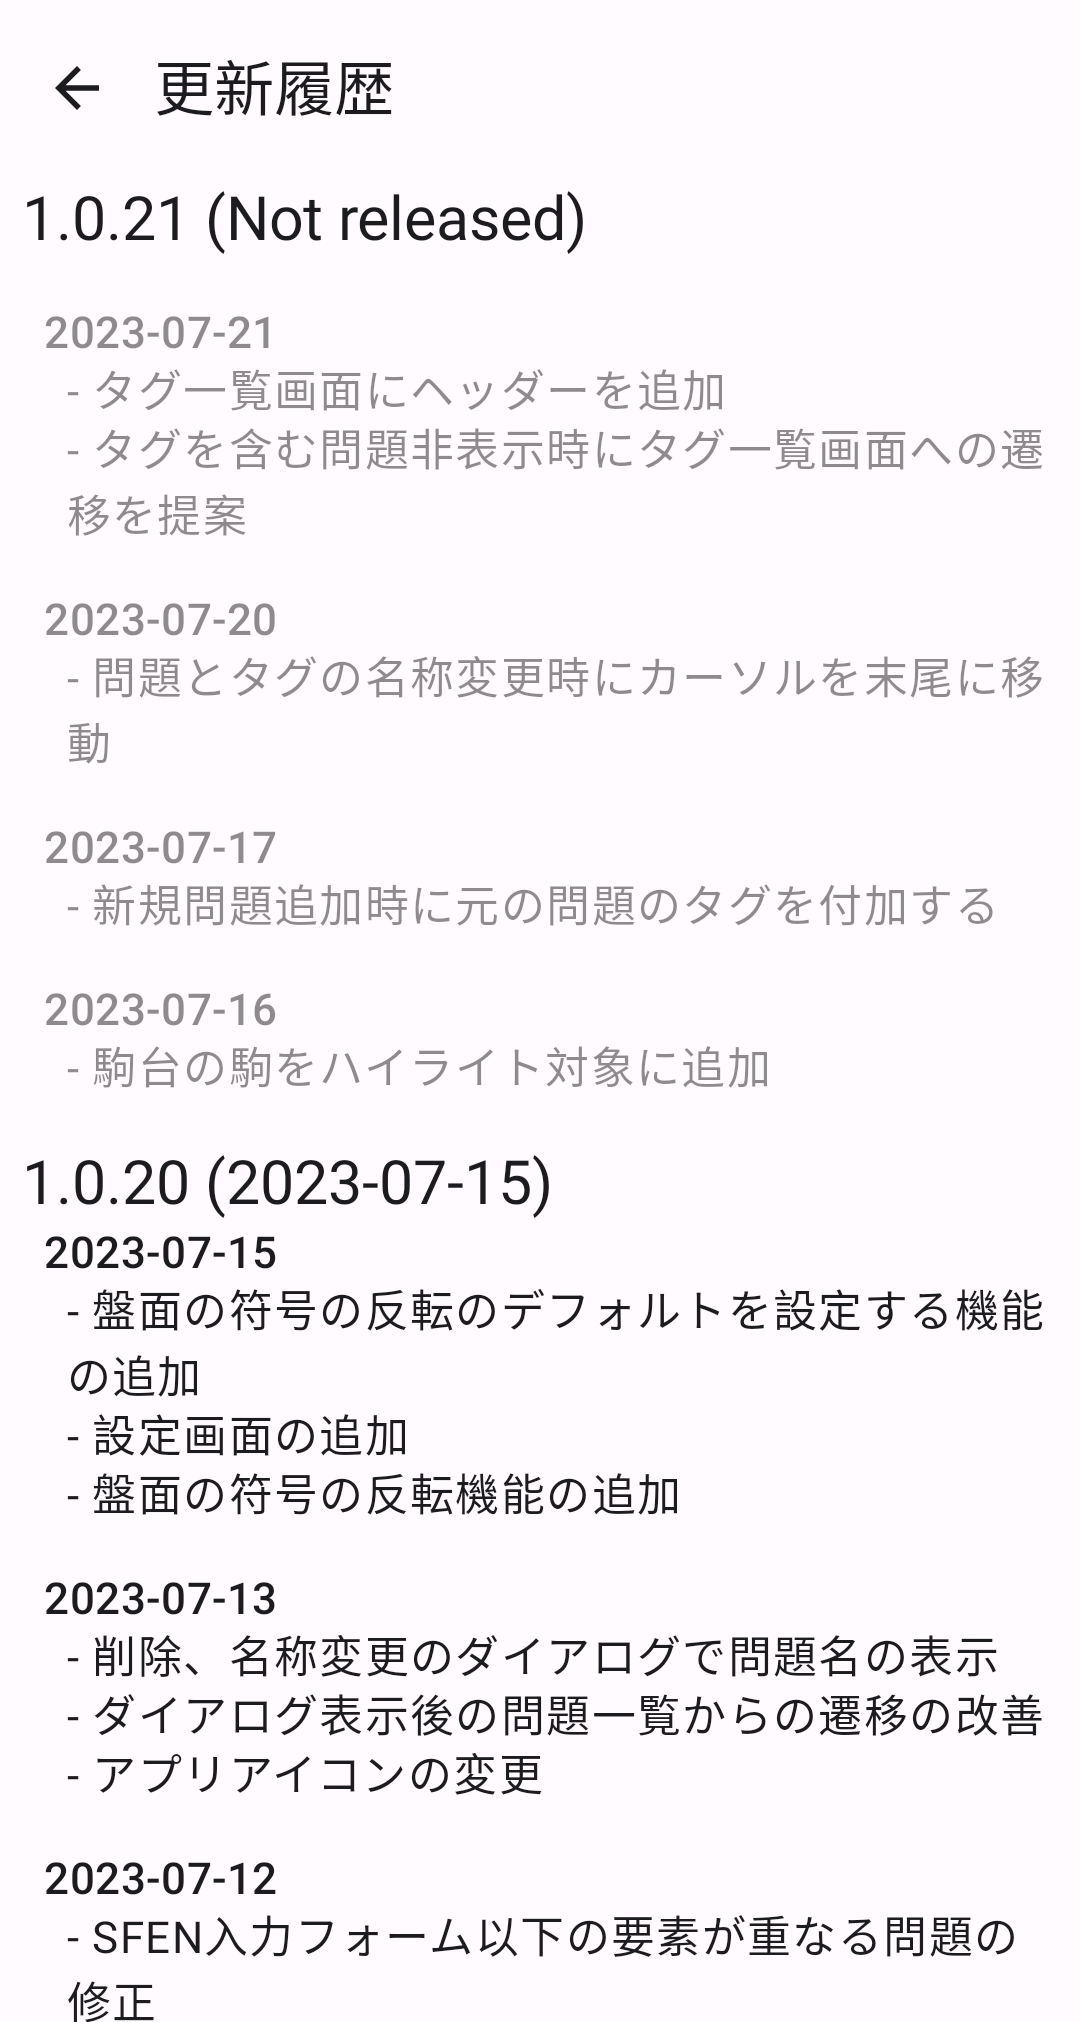
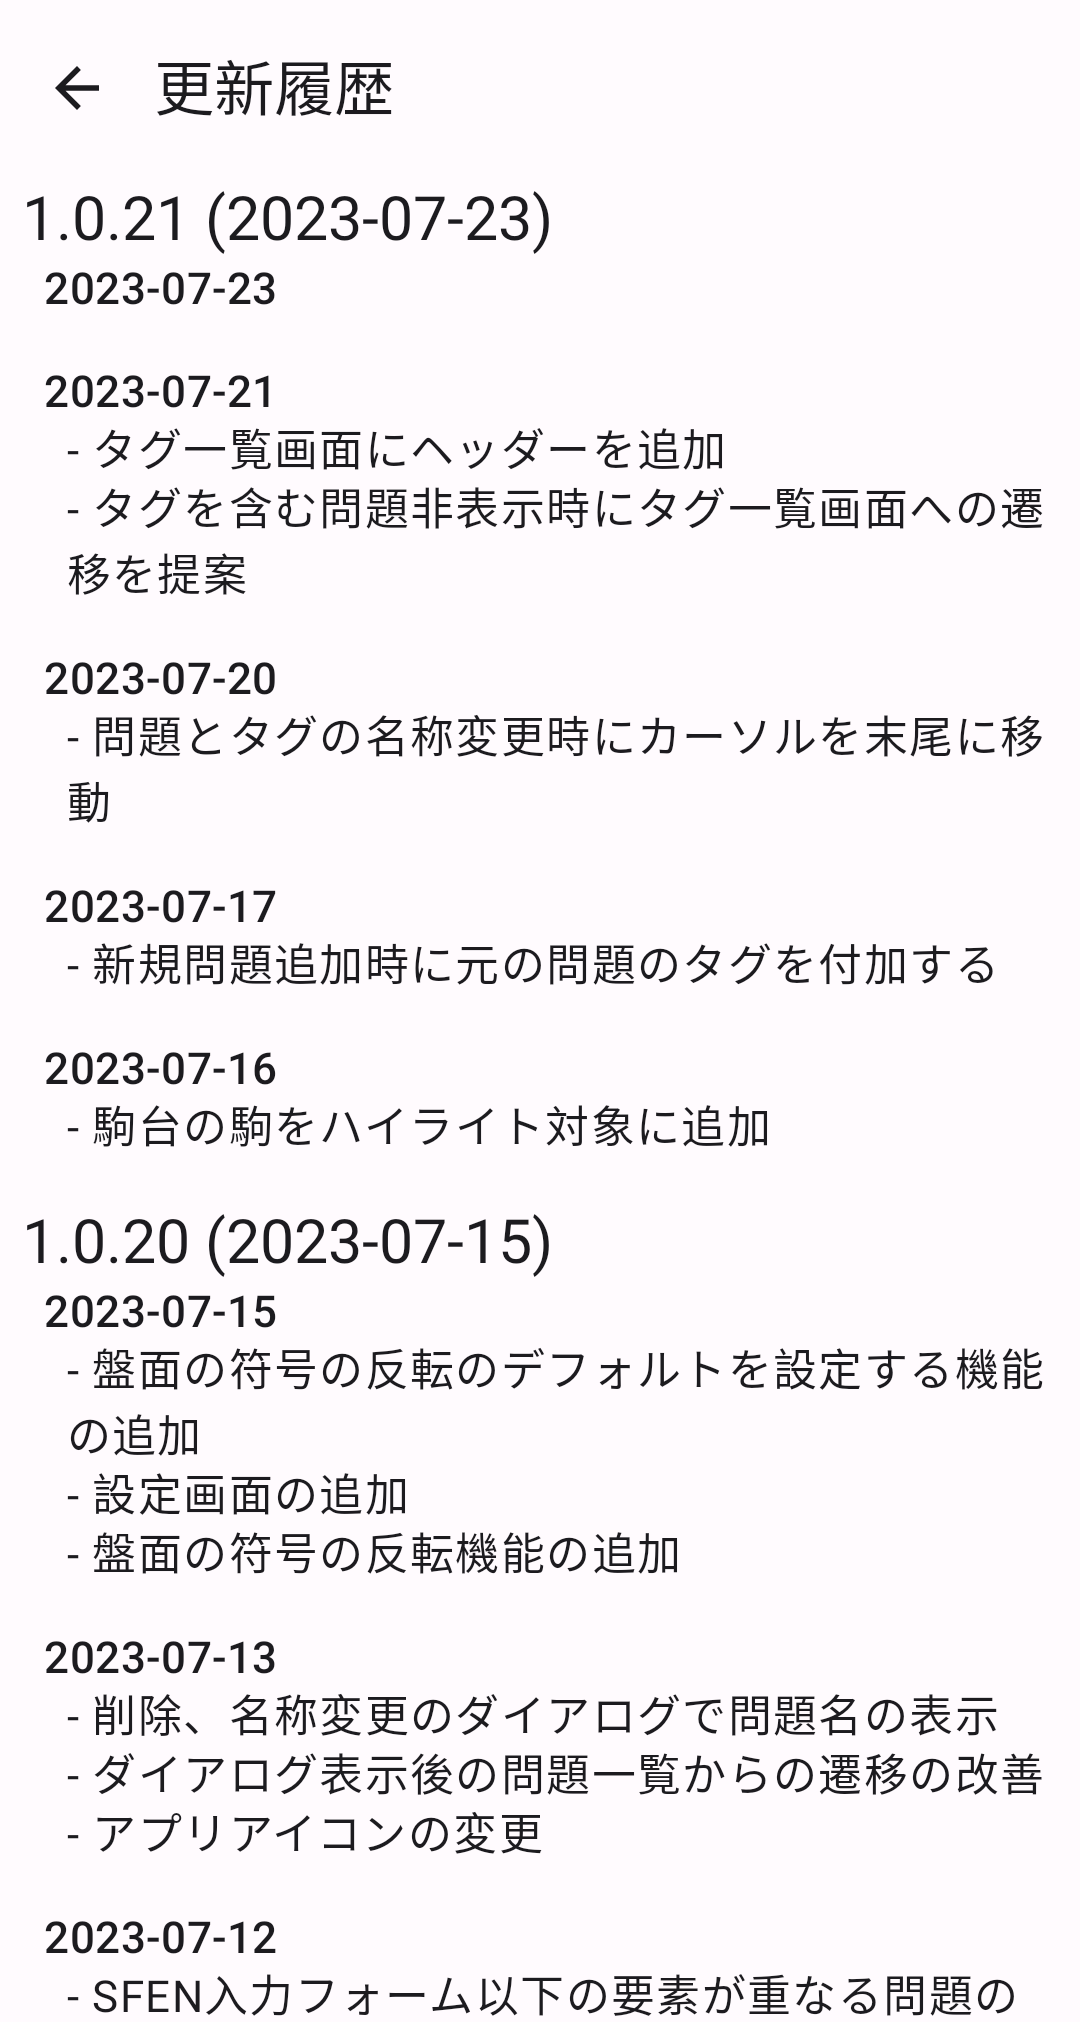
run `make all`

diff --git a/CHANGELOG.md b/CHANGELOG.md
@@ -1,6 +1,7 @@
 <!-- This file is generated by generate_changelog.py. Do NOT edit manually. -->
 
-## v1.0.21 [Not released]
+
+## v1.0.21 [20230723]
 
 - タグ一覧画面にヘッダーを追加
 - タグを含む問題非表示時にタグ一覧画面への遷移を提案
